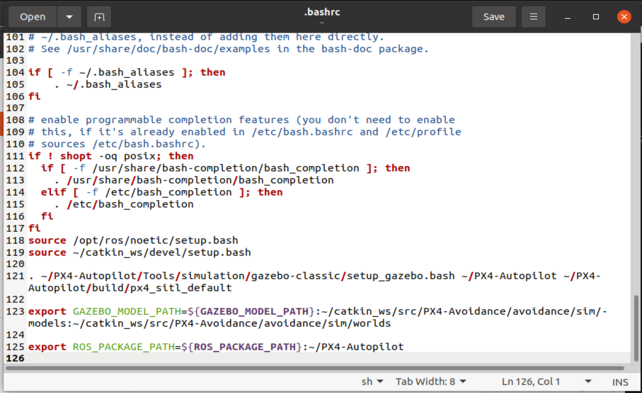
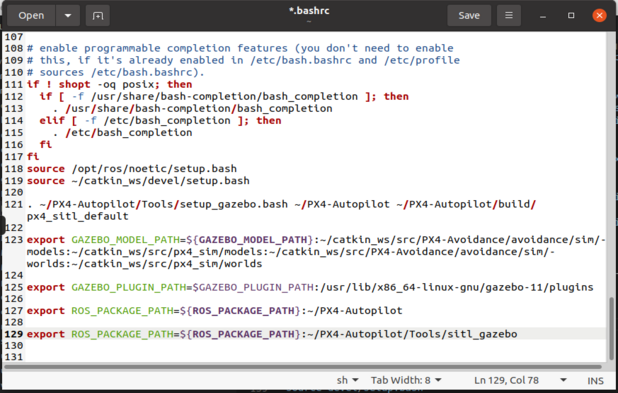
model update 	modified:   docs/InstallDesktop.md 	modified:   docs/bashrc.png 	modified:   px4_sim/airframes_sitl/4006_frame450 	modified:   px4_sim/airframes_sitl/50005_diff_rover 	modified:   px4_sim/airframes_sitl/6013_frame550 	modified:   px4_sim/launch/1mavros_posix_sitl.launch 	modified:   px
Untracked files:
	ar_track_alvar/
	vl53l1x_ros/

Changed region(s): [[0.0, 0.0, 1.0, 1.0]]

diff --git a/docs/InstallDesktop.md b/docs/InstallDesktop.md
@@ -117,11 +117,16 @@ sudo nano ~/.bashrc
 ```
 ---------------------------------------------------------------------------------
 ```s
-. ~/PX4-Autopilot/Tools/simulation/gazebo-classic/setup_gazebo.bash ~/PX4-Autopilot ~/PX4-Autopilot/build/px4_sitl_default
+. ~/PX4-Autopilot/Tools/setup_gazebo.bash ~/PX4-Autopilot ~/PX4-Autopilot/build/px4_sitl_default
 
-export GAZEBO_MODEL_PATH=${GAZEBO_MODEL_PATH}:~/catkin_ws/src/PX4-Avoidance/avoidance/sim/models:~/catkin_ws/src/PX4-Avoidance/avoidance/sim/worlds
+export GAZEBO_MODEL_PATH=${GAZEBO_MODEL_PATH}:~/catkin_ws/src/PX4-Avoidance/avoidance/sim/models:~/catkin_ws/src/px4_sim/models:~/catkin_ws/src/PX4-Avoidance/avoidance/sim/worlds:~/catkin_ws/src/px4_sim/worlds
+
+export GAZEBO_PLUGIN_PATH=$GAZEBO_PLUGIN_PATH:/usr/lib/x86_64-linux-gnu/gazebo-11/plugins
 
 export ROS_PACKAGE_PATH=${ROS_PACKAGE_PATH}:~/PX4-Autopilot
+
+export ROS_PACKAGE_PATH=${ROS_PACKAGE_PATH}:~/PX4-Autopilot/Tools/sitl_gazebo
+
 ```
 ---------------------------------------------------------------------------------
 
